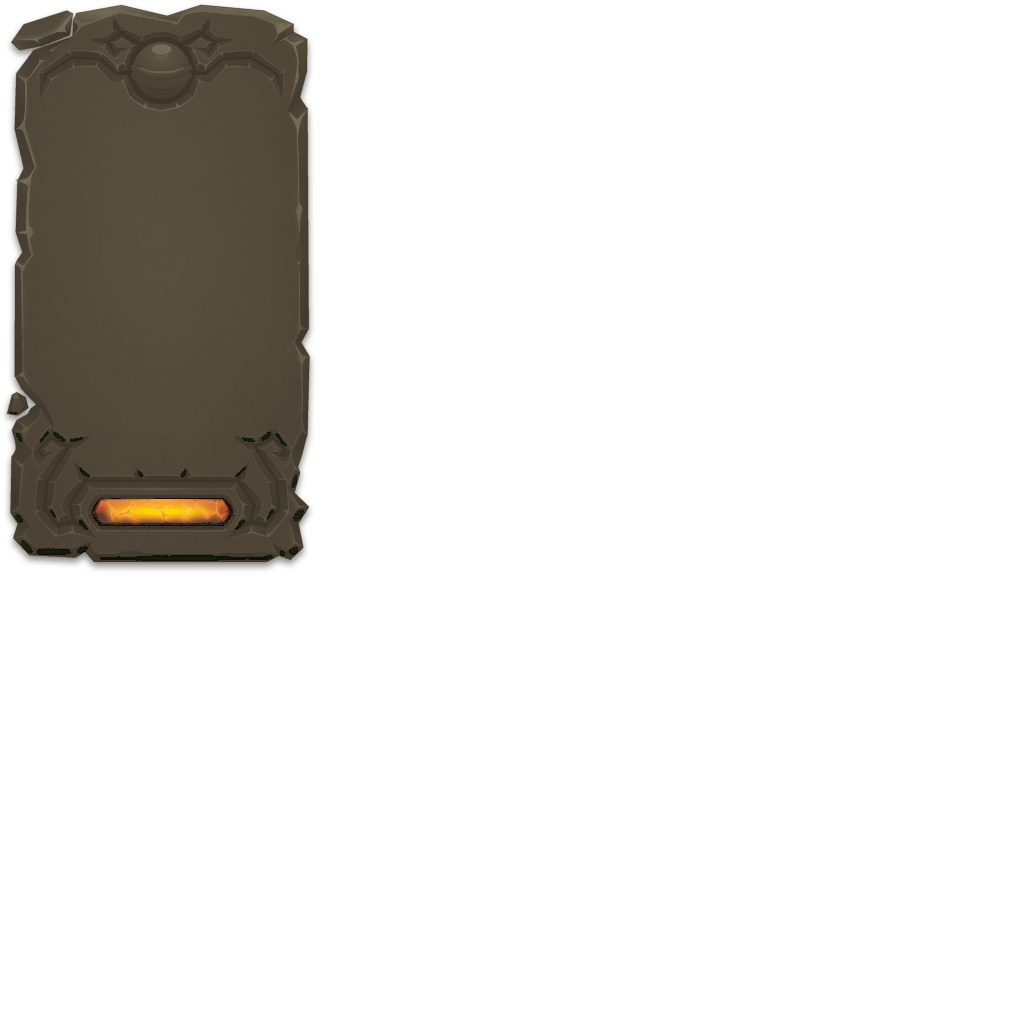
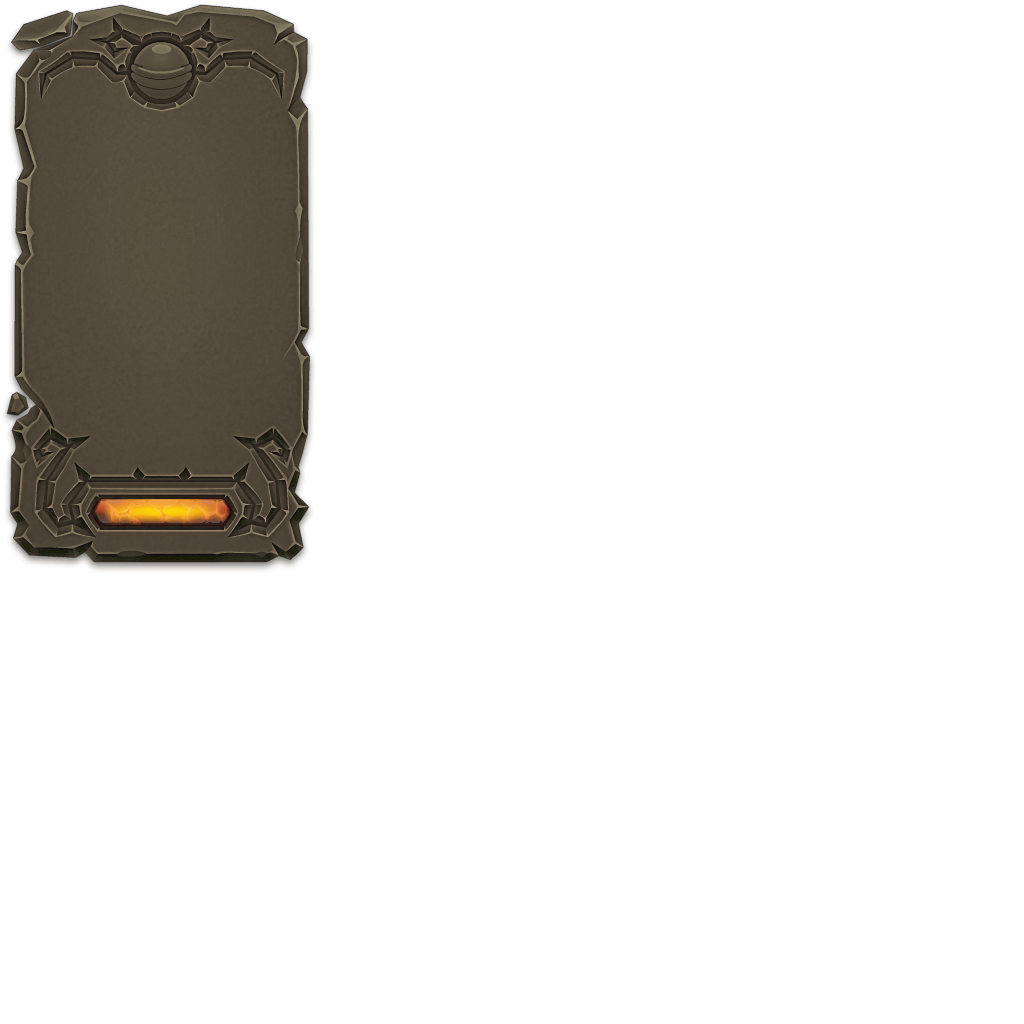
update(all) : mise a jour de tous les fichiers pour repartir sur une base saine

diff --git a/outils/transfert_qualite.py b/outils/transfert_qualite.py
@@ -1,0 +1,42 @@
+"""
+Recolore une image SANS perte de qualité.
+
+Le dessin (relief, dégradés, grain, bords doux) vient d'une image lisse (original du jeu,
+ou EvaUnit-01), et les couleurs viennent d'une image déjà recolorée de même taille.
+La forme et la transparence de l'image recolorée sont conservées.
+
+Usage :
+    python transfert_qualite.py  image_lisse.png  image_recoloree.png  sortie.png
+"""
+import numpy as np, sys, os
+sys.path.insert(0, os.path.dirname(os.path.abspath(__file__)))
+from teintes import rgb2hls, hls2rgb
+from PIL import Image
+from scipy import ndimage as nd
+def transfert(src,guide,dst,s_teinte=0.7,s_ton=2.5):
+    e=np.array(Image.open(src).convert('RGBA')).astype(float)/255
+    u=np.array(Image.open(guide).convert('RGBA')).astype(float)/255
+    lab,n=nd.label((e[...,3]>0)|(u[...,3]>0),np.ones((3,3)))
+    o=e.copy()
+    eLr=rgb2hls(e[...,:3])[1]; uLr=rgb2hls(u[...,:3])[1]
+    for i,sl in enumerate(nd.find_objects(lab),1):
+        if sl is None: continue
+        y0,y1=max(sl[0].start-6,0),sl[0].stop+6; x0,x1=max(sl[1].start-6,0),sl[1].stop+6
+        S=(slice(y0,y1),slice(x0,x1)); comp=(lab[S]==i)
+        w=u[S][...,3]*comp
+        if w.sum()<1: continue
+        def nc(v,s):
+            return nd.gaussian_filter(v*w,s)/np.maximum(nd.gaussian_filter(w,s),1e-6)
+        ur=np.stack([nc(u[S][...,c],s_teinte) for c in range(3)],-1)
+        uh,_,uS=rgb2hls(np.clip(ur,0,1))
+        _,eL,_=rgb2hls(e[S][...,:3])
+        dL=nc(uLr[S]-eLr[S],s_ton)
+        dLf=nc(uLr[S]-eLr[S],0.5)
+        gS=rgb2hls(np.clip(u[S][...,:3],0,1))[2]
+        k=np.clip((gS-0.25)/0.25,0,1)
+        dL=dL*(1-k)+dLf*k
+        rgb=hls2rgb(uh,np.clip(eL+dL,0,1),uS)
+        blk=o[S]; blk[...,:3][comp]=rgb[comp]
+    o[...,3]=u[...,3]  # forme et transparence de la version Retro (bords déjà propres)
+    Image.fromarray((np.clip(o,0,1)*255).round().astype(np.uint8)).save(dst)
+if __name__=='__main__': transfert(*sys.argv[1:4])

diff --git a/outils/teintes.py b/outils/teintes.py
@@ -1,0 +1,23 @@
+"""Outils de teinte (conversion RGB <-> HLS vectorisée) utilisés par transfert_qualite.py."""
+import numpy as np,sys
+from PIL import Image
+def rgb2hls(c):
+    mx=c.max(-1);mn=c.min(-1);L=(mx+mn)/2;d=mx-mn
+    S=np.where(d==0,0,np.where(L<0.5,d/(mx+mn+1e-9),d/(2-mx-mn+1e-9)))
+    r,g,b=c[...,0],c[...,1],c[...,2]
+    h=np.where(mx==r,((g-b)/(d+1e-9))%6,np.where(mx==g,(b-r)/(d+1e-9)+2,(r-g)/(d+1e-9)+4))/6
+    return np.where(d==0,0,h),L,S
+def hls2rgb(h,L,S):
+    q=np.where(L<0.5,L*(1+S),L+S-L*S);p=2*L-q
+    def f(t):
+        t=t%1
+        return np.where(t<1/6,p+(q-p)*6*t,np.where(t<1/2,q,np.where(t<2/3,p+(q-p)*(2/3-t)*6,p)))
+    return np.stack([f(h+1/3),f(h),f(h-1/3)],-1)
+def warm(src,dst,hue=27,sat=1.0,lmul=1.0):
+    a=np.array(Image.open(src).convert('RGBA')).astype(float)
+    h,L,S=rgb2hls(a[...,:3]/255)
+    out=hls2rgb(np.full_like(h,hue/360),np.clip(L*lmul,0,1),np.clip(S*sat,0,1))
+    a[...,:3]=out*255
+    Image.fromarray(a.round().astype(np.uint8)).save(dst)
+if __name__=='__main__':
+    warm(sys.argv[1],sys.argv[2],float(sys.argv[3]),float(sys.argv[4]))

diff --git a/docs/INTERFACES.md b/docs/INTERFACES.md
@@ -1,0 +1,128 @@
+# Les familles d'interfaces de Wakfu
+
+> Classement établi en jeu par Naofel. Chaque famille est dessinée par des fichiers différents
+> et se travaille à part.
+
+## 1. Interfaces récentes (refonte) — ✅ homogènes
+
+Fiche personnage, inventaire, aptitudes, carnet de bord (quêtes, exploits), donjons (classement),
+ensembles de cosmétiques, répertoire, encyclopédie, croupiers, hôtel de vente, options, zaap,
+échanges, coffres du havre-sac, récompenses de la boutique, écran de connexion (en partie).
+
+- **Signe distinctif :** une **en-tête** (barre de titre brune).
+- **Dessinées par :** le dossier `images/textures/` (`NP-window-*`, `Header*`, `NP-Tab`, boutons `NP-*`…).
+- **Couleurs :** toutes répondent aux mêmes identifiants de `colors.xml`. Facile à modifier.
+
+## 2. Interfaces anciennes (pas encore refaites par Ankama) — 🚧 à homogénéiser
+
+Guilde, métiers, artisanat, héros et compagnons, champs de bataille, politique (nation, gouverneur),
+passeport, attitudes et smileys, boutique, écosystème, climat.
+
+- **Signe distinctif :** un **titre blanc sans en-tête**.
+- **Dessinées par :** les **planches** de la racine de `images/`
+  (`themeDefault*`, `themeSimple*`, `themeOver*`, `themePressed*`, `themeDisabled*`, `selectedTheme*`).
+  Le dessin vient du design de Ymoka (Nightflow), repris dans la version lisse d'EvaUnit-01 (Dranathilus).
+- **Couleurs :** en général les mêmes identifiants, mais chaque interface a ses particularités.
+- **En cours :** fond des fenêtres, fonds intérieurs et socles faits ; le reste avance morceau par morceau.
+
+## 3. Guide
+
+Un peu à part, proche de la famille 2. Son cadre et son fond viennent de la case **E4** de `themeSimple3`.
+
+## 4. Entrée des donjons
+
+À part : cadre illustré, panneau d'options, jauge de Stasis (dans `themeSimple3`).
+
+## 5. Carte du monde
+
+À part : garde le format de **plateau** (cadre en relief), avec des éléments de la famille 1
+(boutons Pions / Filtres, légende).
+
+---
+
+# Cartographie des textures (diagnostics en jeu)
+
+Résultats des tests « couleur flash » : chaque fichier de `images/textures/` a été rempli d'une couleur
+vive pour voir où il apparaît. ⚠ = fichier partagé par plusieurs écrans, à modifier avec prudence.
+
+| Fichier | Où il apparaît | État dans le thème |
+|---|---|---|
+| `OnboardingBackground` (572×884) | Panneau de sélection des personnages, uniquement | Beige `#d7d1ad` |
+| `NP-window-Medium` ⚠ | Boutons retour et paramètres et encadré Booster (connexion), infobulles des aptitudes, menu des canaux du chat, bandeau et barre Pions / Filtres de la carte, légende de la carte, menu « Trier par », fenêtre « Copier vers un autre build » | Brun `#555142` (doit rester foncé : texte blanc) |
+| `NP-window-DarkSmall` ⚠ | Fond des grandes fenêtres : menu Échap, inventaire, zaaps… | Beige `#d7d1ad` |
+| `NP-minus1` ⚠ | Fond intérieur de presque toutes les interfaces récentes : aptitudes, sorts, équipements, options, donjons, recherche, barre de kamas, « Emplacement libre », cases de « Copier vers un autre build » | Noir 25 % (d'origine) |
+| `NP-minus2` ⚠ | Blocs d'en-tête : filtres de recherche (Niveau, Rareté…), carte du donjon, liste et cases des raccourcis | Blanc 5 % et bordure (d'origine) |
+| `NP-minus3`, `NP-minus4` | Non trouvés | D'origine |
+| `ornateFrame1` à `4` | Cadres en filigrane autour des blocs (sorts actifs, passifs, mécanique, équipement, angle des fenêtres de confirmation) | Beige foncé `#8c8368` à ~35 % |
+| `ornateFrame5` | Idem | D'origine (choix) |
+| `Tooltip-Gradient` | Lueur en haut à gauche des infobulles d'objet | D'origine |
+| `TooltipBG-Default` | Infobulle d'objet **ouverte ou épinglée** (avec ses boutons œil et fermer) | Beige-taupe, gardé (lisible) |
+| `TooltipBG-Over` | Infobulle **de survol** (objets, sorts) | Beige-taupe, gardé (lisible) |
+| `TooltipBG-Heroes`, `NP-ToolTip-1` | Non trouvés | — |
+| `Fighter-Gradient` | Dégradé en combat | D'origine |
+| `LeftGradient`, `NP-White-*`, `NP-Listelement-Button-1` | Rien de visible lors des tests | D'origine |
+| `DialogueMain`, `DialogueTitle`, `DialogueOrnament` | Dialogues avec les PNJ | Dessin Wakfu en teintes chaudes (noir chaud, bandeau orange brûlé) |
+
+**Non modifiable :** le survol des lignes de personnages (écran de connexion) n'est ni une image ni une
+couleur de `colors.xml`. Le moteur éclaircit lui-même la ligne, presque invisible sur le beige.
+
+## Famille 2 : morceaux de planches identifiés
+
+### Comment ces planches fonctionnent
+
+- Les planches de la racine de `images/` sont de grandes images (1024 ou 2048 px) découpées en
+  centaines de morceaux. Le jeu en étire certains (9-patch) pour dessiner des fenêtres entières.
+- **Les états partagent les mêmes coordonnées.** Un même morceau existe dans `themeDefault` (repos),
+  `themeOver` (survol), `themePressed` (appui ou sélection) et `themeDisabled` (désactivé).
+  Pour modifier l'effet de survol d'un bouton, on retouche donc le même endroit dans `themeOver`.
+- `selectedTheme*` n'a pas servi pour les éléments testés jusqu'ici (socles de la guilde, etc.).
+
+### Méthode de diagnostic
+
+1. **Quadrillage codé** : chaque case de 1/8 × 1/8 de la planche reçoit une couleur unique et opaque.
+   Sur une capture, la couleur mesurée donne la case exacte (A = `themeDefault`, B = `themeDefault2`,
+   C = `themeSimple`, D = `themeSimple2`, E = `themeSimple3`, numéros 1 à 64 ligne par ligne).
+2. **Remettre une planche à la fois** : on laisse les planches de test en place et on remet
+   une seule planche d'origine. Ce qui reprend sa couleur normale vient de celle-là.
+3. **Suspects colorés** : quand il reste quelques candidats, chacun reçoit une couleur différente.
+
+### Morceaux identifiés
+
+| Planche | Morceau | Rôle | État |
+|---|---|---|---|
+| `themeSimple2` | petit carré brun à liseré clair (x 1002-1025, y 14-36) | **Fond de toutes les fenêtres de la famille 2** (boutique, guilde, métiers, climat, politique, havre-mondes, émoticônes, champs de bataille…), étiré par le jeu | Beige clair `#d7d1ad`, liseré crème `#f2ead0` |
+| `themeSimple2` | D57/D58, grand carré (x 46-498, y 1709-2032) | Fonds intérieurs et zones de titre : guilde (améliorations, havre-monde), politique, boutique (détail d'article), gestion de la zone, attitudes | Beige plus sombre `#b4ac8d` |
+| `themeDefault` / `themeOver` / `themePressed` | socle losange (x 190-270, y 80-150) | Socles des menus latéraux (guilde, politique, écosystème…) : repos / survol / sélection | Repos d'origine ; survol : flanc orange ; sélection : plateau clair et halo orange |
+| `themeDefault` | A61, A62, A23 | Boutons de catégories (boutique, guide), bouton « Découvrir » | À traiter |
+| `themeDefault` | A2, A3, A10 | Bouton « Quitter la guilde », filtres (« Tout type »), socles au repos | À traiter |
+| `themeSimple` | C57 / C64 | Cases d'article de la boutique (repos / survol) | À traiter |
+| `themeSimple` | **C11** ⚠ | Panneau intérieur de la boutique **et** bulles de chat **et** infobulles des croupiers | Doit rester foncé (texte blanc) |
+| `themeSimple` | C4 | Infobulle des zaaps | À traiter |
+| `themeSimple` | C1 | Bandeau de la guilde, panneau du groupe, ascenseurs | À traiter |
+| `themeSimple` | C41 | Cadres des héros (gestion du groupe) | À traiter |
+| `themeSimple3` | E4 | Cadre et fond du guide | À traiter |
+| `themeDefault2`…`themeDisabled2` | cartes en pierre avec l'œil | Cartes de sélection (héros / défis) | Brun, lueur orange |
+
+**Pas dans les planches :** les émoticônes, le climat et le passeport (`passeport.png`, à part).
+
+---
+
+# Qualité des images
+
+Les anciennes passes de recoloration travaillaient par seuils et avaient **pixelisé** une grande
+partie des images (aplats, bords crénelés, gravures tracées en pixels). Toutes les images ont été
+refaites à partir de sources lisses, en gardant les couleurs choisies :
+
+| Dossier | Source du dessin |
+|---|---|
+| `textures/` | originaux du jeu (`gui.jar`) |
+| Planches (`theme*`, `selectedTheme*`) | **EvaUnit-01** (Dranathilus), même disposition que Nightflow, sans pixelisation |
+| Planches `2`, `newCharacter` | originaux du jeu (`gui.jar`) |
+| `pictos/`, `itemsRarityBorders/`, `dungeonGameplay/` | EvaUnit-01 (déjà propres, non retouchés) |
+
+**Méthode (`outils/transfert_qualite.py`)** : pour chaque pixel, le **dessin** (relief, dégradés,
+grain, bords doux) vient de la source lisse, et la **couleur** (teinte, saturation, clarté) vient de
+l'ancienne version du thème au même endroit. La forme et la transparence du thème sont conservées.
+
+> ⚠ **Règle à respecter désormais :** ne plus recolorer par seuils. Toute retouche se fait par
+> décalage de clarté (relief conservé) ou par rotation de teinte, à partir d'une image lisse.

diff --git a/README.md b/README.md
@@ -41,7 +41,11 @@ comme le permet le système de thèmes officiel d'Ankama.
 | 🎯 **Sélection** | Contours orange façon Retro |
 | 🔘 **Boutons principaux** | Orange Retro |
 | 📊 **Jauges Wakfu / Stasis / XP** | Couleurs d'origine conservées |
-| 🪟 **Fenêtres, onglets, champs, infobulles** | 🚧 En cours : passage progressif en thème clair, écran par écran |
+| 🪟 **Fenêtres récentes** (inventaire, fiche, aptitudes…) | Parchemin beige clair, en-têtes brun foncé |
+| 🏛 **Anciennes interfaces** (guilde, métiers, boutique, politique…) | Fond beige clair, zones intérieures beige plus sombre, socles orange au survol et à la sélection |
+| 💭 **Dialogues avec les PNJ** | Panneau noir chaud, réponses brunes (orange au survol), bandeau du nom orange brûlé |
+| ℹ **Infobulles** | Fond brun foncé, texte blanc |
+| 🖼 **Qualité des images** | Toutes les images sont lisses : dessin d'origine conservé, seules les couleurs changent |
 
 ---
 
@@ -86,25 +90,26 @@ en plus pâle pour le Recrutement. On reconnaît ainsi la langue d'un message d'
 
 ## 🛠 Comment le thème est fabriqué
 
-### Les images : un outil de recoloration
+### Les images : recolorées sans perte de qualité
 
 L'interface de Wakfu compte plus de 600 images. Elles ne sont pas redessinées à la main :
-elles sont **recolorées automatiquement** par un script Python
-([`outils/recolorer_theme.py`](outils/recolorer_theme.py)), à partir du modèle de thème officiel d'Ankama.
+elles sont **recolorées par des scripts Python** (dossier [`outils/`](outils/)).
 
 Le principe :
-- chaque pixel est classé selon sa teinte, sa saturation et sa luminosité (gris, bleu nuit, turquoise, rose…) ;
-- chaque catégorie suit une **palette** : un dégradé qui associe une luminosité d'origine à une nouvelle couleur ;
-- comme la correspondance se fait par luminosité, **les reliefs, ombres et textures de Wakfu sont conservés**, seule la teinte change ;
+- **le dessin vient toujours d'une image lisse** : les originaux du jeu, ou le thème EvaUnit-01
+  pour les grandes planches des anciennes interfaces ;
+- **seules les couleurs changent** : relief, ombres, dégradés, grain et bords doux sont conservés ;
 - **la taille et la transparence ne sont jamais modifiées**, et les images sont enregistrées en PNG, sans perte ;
-- les grands aplats (fonds de fenêtres) sont distingués des petits détails (icônes, traits), pour que chacun reçoive la bonne couleur ;
-- certaines images restent d'origine : Dofus, raretés, jauges, couleurs alliés/ennemis, illustrations.
+- certaines images restent d'origine : Dofus, raretés, jauges, couleurs alliés/ennemis, illustrations, pictos.
 
-Toutes les couleurs et les règles se règlent en haut du script, dans la partie **RÉGLAGES**.
+Chaque retouche est d'abord **diagnostiquée en jeu** : l'image est remplie d'une couleur vive
+(ou découpée en cases de couleurs uniques) pour savoir exactement quel écran elle dessine.
+Le détail est dans [`docs/INTERFACES.md`](docs/INTERFACES.md).
 
 ```bash
 pip install pillow numpy scipy
-python outils/recolorer_theme.py  chemin/vers/theme_officiel/images  sortie/images
+# dessin de l'image lisse + couleurs de l'image recolorée, même taille
+python outils/transfert_qualite.py  image_lisse.png  image_recoloree.png  sortie.png
 ```
 
 ### Les couleurs de texte : `colors.xml`
@@ -169,17 +174,24 @@ Le thème avance **écran par écran**, une étape testée en jeu à la fois.
 - [x] HUD : panneaux beige clair, boutons orange à pictos blancs
 - [x] Groupe et timeline de combat : survol orange
 - [x] Boutons : passage progressif en orange
+- [x] Écran de connexion : panneau des personnages beige
+- [x] Dialogues avec les PNJ
+- [x] Qualité : toutes les images refaites à partir de sources lisses
+- [x] Anciennes interfaces : fond des fenêtres, fonds intérieurs, socles des menus
+- [ ] Anciennes interfaces : boutons, cases de la boutique, bandeaux, infobulles jaunes
+- [ ] Guide
+- [ ] Passeport
+- [ ] Entrée des donjons
 - [ ] Champs de saisie et valeurs des aptitudes
 - [ ] Suivi de quête
-- [ ] Infobulles d'objets
-- [ ] Autres fenêtres (inventaire, options, hôtel de vente…)
 
 ---
 
 ## 🙏 Crédits
 
 - **[Ankama](https://www.ankama.com)** : WAKFU, Dofus Retro, et le **modèle de thème officiel** qui sert de base au projet. Toutes les images d'origine leur appartiennent.
-- **Nightflow**, par **Ymoka et l'équipe WAKFU** : le `colors.xml` de ce thème a servi de point de départ au projet.
+- **Nightflow**, par **Ymoka et l'équipe WAKFU** : le `colors.xml` de ce thème a servi de point de départ au projet, et son design des anciennes interfaces est conservé.
+- **EvaUnit-01**, par **Dranathilus et l'équipe WAKFU** : ses planches lisses servent de base au dessin des anciennes interfaces.
 - **Ailten et KockaColHa** : leur thème Dofus Retro pour Wakfu (2022) a servi de référence et d'inspiration.
 - **Naofel** : création, tests en jeu, direction artistique et couleurs du chat.
 
@@ -189,7 +201,7 @@ Le thème avance **écran par écran**, une étape testée en jeu à la fois.
 
 **Oui**, l'IA a été utilisée pour ce projet, pour :
 - générer divers scripts, dont l'outil de recoloration ;
-- modifier les images de l'interface (recoloration).
+- modifier les images de l'interface (recoloration, diagnostics en jeu, reprise de la qualité).
 
 La direction artistique, les choix de couleurs et les tests en jeu sont faits à la main.
 
